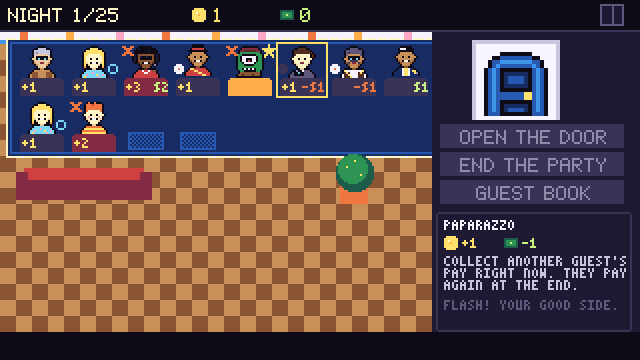
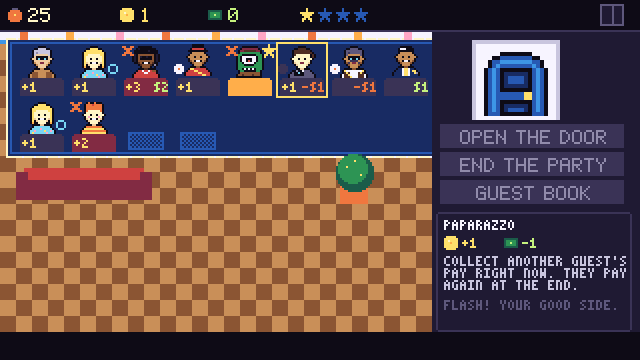
OPEN HOUSE: the grid shop is back
Hamza prefers the old shop to the GUESTS / STARS / HOUSE planner from
d051dd9, so the shop is a grid of guest cards again, five to a row, over
+1 SPACE, GUEST BOOK and NEXT PARTY, with the same D-pad navigation as
before that commit. Everything else from d051dd9 stays: the ban that
survives a quit, the star meter, the nights-left counter (now also in the
shop's top bar), the Random codes and the scenario names. The counter on
the right still explains a button when one is picked.

ph_18 becomes ph_18_codes_shop and walks the grid instead of the planner
(new shopcur probe; shopcat is gone). The design doc describes the grid,
says it is the owner's choice and that the original's planner differs.
The OPEN HOUSE shots are regenerated.

Changed region(s): [[0.0, 0.0, 0.25, 0.0611], [0.4375, 0.0306, 0.5938, 0.0611], [0.2812, 0.0, 0.375, 0.0611]]

diff --git a/src/games/openhouse/openhouse.c b/src/games/openhouse/openhouse.c
@@ -31,7 +31,7 @@ static int msg_t;
 static const char *msg;
 static int run_code = -1;          /* the Random list's six-digit code, -1 for a set list */
 static int code_dig[6], code_cur;  /* typing a code in */
-static int shop_cat, shop_row[3];  /* the planner: GUESTS, STARS, HOUSE; a row in each */
+static int shop_cur;               /* the shop grid: guests, then SPACE, NEXT PARTY, GUEST BOOK */
 
 #define SLOT_W 26
 #define SLOT_H 28
@@ -366,57 +366,44 @@ static void update_ban(void) {
 /* ------------------------------------------------------------------ */
 /* the shop                                                             */
 
-/* The planner, like the original's: left and right switch between the
- * categories (GUESTS, STARS, HOUSE), up and down pick an item in one.
- * Guests are listed by their price in fame. */
-enum { SC_GUESTS, SC_STARS, SC_HOUSE, SC_COUNT };
-enum { SH_SPACE, SH_BOOK, SH_NEXT, SH_COUNT };
+/* The shop is a grid of guest cards, five to a row, over a row of three
+ * buttons (SPACE, GUEST BOOK, NEXT PARTY). The original's planner lists its
+ * guests differently; the grid is the owner's choice. shop_cur runs through
+ * the pool, then SPACE (npool), NEXT PARTY (npool + 1), GUEST BOOK (+ 2). */
+#define SHOP_COLS 5
+enum { SH_SPACE, SH_NEXT, SH_BOOK };
 
-/* the pool indices in a category; the house items are 0..2 */
-static int shop_items(int cat, int *out) {
-    int n = 0;
-    if (cat == SC_HOUSE) { for (int i = 0; i < SH_COUNT; i++) out[n++] = i; return n; }
-    for (int i = 0; i < G.npool; i++) {
-        bool star = (PH_GUESTS[G.pool[i]].traits & T_STAR) != 0;
-        if (star == (cat == SC_STARS)) out[n++] = i;
-    }
-    return n;
-}
+static void shop_home(void) { shop_cur = 0; }
 
-static void shop_home(void) {
-    shop_cat = SC_GUESTS;
-    memset(shop_row, 0, sizeof shop_row);
-}
-
-/* the guest type under the cursor, or -1 on a house item */
-static int shop_type(void) {
-    int it[PH_POOL_MAX + SH_COUNT];
-    int n = shop_items(shop_cat, it);
-    if (shop_cat == SC_HOUSE || n == 0) return -1;
-    return G.pool[it[imin(shop_row[shop_cat], n - 1)]];
-}
+/* the guest type under the cursor, or -1 on a button */
+static int shop_type(void) { return shop_cur < G.npool ? G.pool[shop_cur] : -1; }
 
 static void update_shop(void) {
-    int it[PH_POOL_MAX + SH_COUNT];
-    int cat0 = shop_cat, row0 = shop_row[shop_cat];
-    if (btn_repeat(BTN_LEFT) && shop_cat > 0) shop_cat--;
-    if (btn_repeat(BTN_RIGHT) && shop_cat < SC_COUNT - 1) shop_cat++;
-    int n = shop_items(shop_cat, it);
-    int *r = &shop_row[shop_cat];
-    if (*r >= n) *r = imax(0, n - 1);
-    if (btn_repeat(BTN_UP)) *r = *r > 0 ? *r - 1 : n - 1;
-    if (btn_repeat(BTN_DOWN)) *r = *r < n - 1 ? *r + 1 : 0;
-    if (shop_cat != cat0 || *r != row0) sfx_play_name("ph_move");
-    if (!btnp(BTN_A) || n == 0) return;
-    if (shop_cat != SC_HOUSE) {
-        int ty = G.pool[it[*r]];
+    int c0 = shop_cur;
+    if (shop_cur < G.npool) {
+        if (btn_repeat(BTN_LEFT) && shop_cur % SHOP_COLS > 0) shop_cur--;
+        if (btn_repeat(BTN_RIGHT) && shop_cur % SHOP_COLS < SHOP_COLS - 1 && shop_cur + 1 < G.npool) shop_cur++;
+        if (btn_repeat(BTN_UP) && shop_cur >= SHOP_COLS) shop_cur -= SHOP_COLS;
+        if (btn_repeat(BTN_DOWN)) { if (shop_cur + SHOP_COLS < G.npool) shop_cur += SHOP_COLS; else shop_cur = G.npool; }
+    } else {
+        /* left to right: SPACE, GUEST BOOK, NEXT PARTY */
+        const int order[3] = {G.npool + SH_SPACE, G.npool + SH_BOOK, G.npool + SH_NEXT};
+        int k = 0;
+        while (k < 2 && order[k] != shop_cur) k++;
+        if (btn_repeat(BTN_LEFT) && k > 0) shop_cur = order[k - 1];
+        if (btn_repeat(BTN_RIGHT) && k < 2) shop_cur = order[k + 1];
+        if (btn_repeat(BTN_UP)) shop_cur = imax(0, G.npool - 1 - (G.npool - 1) % SHOP_COLS);
+    }
+    if (shop_cur != c0) sfx_play_name("ph_move");
+    if (!btnp(BTN_A)) return;
+    if (shop_cur == G.npool + SH_BOOK) { back_state = S_SHOP; state = S_LIST; state_t = 0; fcur = 0; sfx_play_name("ui_ok"); return; }
+    if (shop_cur < G.npool) {
+        int ty = G.pool[shop_cur];
         if (ph_buy(&G, ty)) sfx_play_name(PH_GUESTS[ty].traits & T_STAR ? "ph_star" : "ph_buy");
         else { sfx_play_name("ph_no"); say(!(PH_GUESTS[ty].traits & T_STAR) && G.bought[ty] >= PH_STOCK ? "SOLD OUT" : "NOT ENOUGH FAME"); }
-    } else if (*r == SH_SPACE) {
+    } else if (shop_cur == G.npool + SH_SPACE) {
         if (ph_expand(&G)) sfx_play_name("ph_build");
         else { sfx_play_name("ph_no"); say(ph_me(&G)->cap >= PH_MAX_HOUSE ? "THE HOUSE CAN'T GROW" : "NOT ENOUGH CASH"); }
-    } else if (*r == SH_BOOK) {
-        back_state = S_SHOP; state = S_LIST; state_t = 0; fcur = 0; sfx_play_name("ui_ok");
     } else {
         sfx_play_name("ui_ok");
         leave_shop();
@@ -890,9 +877,26 @@ static void draw_result(void) {
     if (state_t > 40 && (state_t / 20) % 2) text_center("PRESS " GLYPH_A, 115, 116, C_WHITE);
 }
 
-static void shop_head(const char *title, int x, int w, bool on) {
-    gfx_rect(x, 18, w, 10, on ? C_DUSK : C_INK);
-    tiny_center(title, x + w / 2, 21, on ? C_WHITE : C_SLATE);
+/* a guest card for the shop */
+static void draw_card(int ty, int x, int y, bool hi, bool can) {
+    const PhGuest *t = &PH_GUESTS[ty];
+    bool star = t->traits & T_STAR;
+    int bg = star ? C_BROWN : C_NIGHT;
+    gfx_rect(x, y, 40, 40, bg);
+    gfx_rectb(x, y, 40, 40, hi ? ((frame_t / 8) % 2 ? C_WHITE : C_YELLOW) : star ? C_AMBER : C_DUSK);
+    spr_draw(&ph_spr[ty], x + 12, y + 4, 0);
+    if (star) icon_star(x + 30, y + 2, C_YELLOW);
+    if (t->traits & (T_TROUBLE | T_MOON)) icon_trouble(x + 3, y + 3, C_RED);
+    char b[8];
+    snprintf(b, sizeof b, "%d", t->cost);
+    icon_pop(x + 3, y + 23);
+    text_draw(b, x + 12, y + 23, can ? C_YELLOW : C_SLATE);
+    if (!star) {
+        int left = PH_STOCK - G.bought[ty];
+        for (int k = 0; k < PH_STOCK; k++) gfx_rect(x + 5 + k * 8, y + 34, 5, 3, k < left ? C_LIME : C_DUSK);
+    } else {
+        tiny_draw("STAR", x + 12, y + 33, C_AMBER);
+    }
 }
 
 static void draw_shop(void) {
@@ -903,8 +907,8 @@ static void draw_shop(void) {
     gfx_rect(0, 0, SCREEN_W, 15, C_INK);
     gfx_hline(0, SCREEN_W - 1, 15, C_DUSK);
     char b[48];
-    if (G.players == 2) snprintf(b, sizeof b, "P%d  PLANNER", G.turn + 1);
-    else snprintf(b, sizeof b, "PLANNER");
+    if (G.players == 2) snprintf(b, sizeof b, "P%d  THE SHOP", G.turn + 1);
+    else snprintf(b, sizeof b, "THE SHOP");
     text_draw(b, 4, 4, C_CREAM);
     icon_nights(84, 4);
     snprintf(b, sizeof b, "%d", nights_left(p, false));
@@ -917,61 +921,23 @@ static void draw_shop(void) {
     text_draw(b, 186, 4, C_LIME);
     snprintf(b, sizeof b, "HOUSE %d", p->cap);
     text_draw(b, 222, 4, C_SKY);
-    int it[PH_POOL_MAX + SH_COUNT];
-    /* GUESTS: name, price in fame, the stock left as squares */
-    shop_head("GUESTS", 4, 116, shop_cat == SC_GUESTS);
-    int n = shop_items(SC_GUESTS, it);
-    for (int k = 0; k < n; k++) {
-        int ty = G.pool[it[k]], y = 30 + k * 10;
-        bool hi = shop_cat == SC_GUESTS && shop_row[SC_GUESTS] == k, can = ph_can_buy(&G, ty);
-        if (hi) gfx_rect(4, y - 1, 116, 10, C_DUSK);
-        tiny_draw(PH_GUESTS[ty].name, 7, y + 1, can ? C_WHITE : C_SLATE);
-        if (PH_GUESTS[ty].traits & (T_TROUBLE | T_MOON)) icon_trouble(69, y + 1, C_RED);
-        snprintf(b, sizeof b, "%d", PH_GUESTS[ty].cost);
-        text_draw(b, 84, y, can ? C_YELLOW : C_SLATE);
-        int left = PH_STOCK - G.bought[ty];
-        for (int q = 0; q < PH_STOCK; q++) gfx_rect(100 + q * 5, y + 2, 3, 3, q < left ? C_WHITE : C_DUSK);
+    for (int i = 0; i < G.npool; i++) {
+        int x = 6 + (i % SHOP_COLS) * 43, y = 20 + (i / SHOP_COLS) * 43;
+        draw_card(G.pool[i], x, y, shop_cur == i, ph_can_buy(&G, G.pool[i]));
     }
-    /* STARS: no stock limit */
-    shop_head("STARS", 124, 50, shop_cat == SC_STARS);
-    n = shop_items(SC_STARS, it);
-    for (int k = 0; k < n; k++) {
-        int ty = G.pool[it[k]], y = 31 + k * 36;
-        bool hi = shop_cat == SC_STARS && shop_row[SC_STARS] == k, can = ph_can_buy(&G, ty);
-        gfx_rect(124, y, 50, 34, hi ? C_BROWN : C_INK);
-        gfx_rectb(124, y, 50, 34, hi ? ((frame_t / 8) % 2 ? C_WHITE : C_YELLOW) : C_AMBER);
-        spr_draw(&ph_spr[ty], 141, y + 2, 0);
-        icon_star(164, y + 2, C_YELLOW);
-        icon_pop(128, y + 23);
-        snprintf(b, sizeof b, "%d", PH_GUESTS[ty].cost);
-        text_draw(b, 137, y + 23, can ? C_YELLOW : C_SLATE);
-    }
-    /* HOUSE: a new space, the guest book, the next party */
-    shop_head("HOUSE", 178, 40, shop_cat == SC_HOUSE);
+    /* space, the guest book and the next party */
+    bool hs = shop_cur == G.npool + SH_SPACE, hn = shop_cur == G.npool + SH_NEXT, hb = shop_cur == G.npool + SH_BOOK;
     int cost = ph_expand_cost(p);
-    for (int k = 0; k < SH_COUNT; k++) {
-        int y = 31 + k * 30;
-        bool hi = shop_cat == SC_HOUSE && shop_row[SC_HOUSE] == k;
-        int bg = k == SH_SPACE ? C_TEAL : k == SH_BOOK ? C_NAVY : C_JADE;
-        int hl = k == SH_SPACE ? C_CYAN : k == SH_BOOK ? C_SKY : C_LIME;
-        gfx_rect(178, y, 40, 26, hi ? bg : C_INK);
-        gfx_rectb(178, y, 40, 26, hi ? hl : C_DUSK);
-        if (k == SH_SPACE) {
-            bool ok = p->cash >= cost && p->cap < PH_MAX_HOUSE;
-            if (p->cap >= PH_MAX_HOUSE) tiny_center("FULL", 198, y + 10, C_SLATE);
-            else {
-                tiny_center("+1 SPACE", 198, y + 6, ok ? C_WHITE : C_SLATE);
-                snprintf(b, sizeof b, "$%d", cost);
-                tiny_center(b, 198, y + 15, ok ? C_LIME : C_SLATE);
-            }
-        } else if (k == SH_BOOK) {
-            tiny_center("GUEST", 198, y + 6, hi ? C_WHITE : C_GREY);
-            tiny_center("BOOK", 198, y + 15, hi ? C_WHITE : C_GREY);
-        } else {
-            tiny_center("NEXT", 198, y + 6, hi ? C_WHITE : C_GREY);
-            tiny_center("PARTY", 198, y + 15, hi ? C_WHITE : C_GREY);
-        }
-    }
+    gfx_rect(6, 152, 70, 20, hs ? C_TEAL : C_INK);
+    gfx_rectb(6, 152, 70, 20, hs ? C_CYAN : C_DUSK);
+    snprintf(b, sizeof b, "+1 SPACE $%d", cost);
+    text_center(p->cap >= PH_MAX_HOUSE ? "FULL SIZE" : b, 41, 158, p->cash >= cost && p->cap < PH_MAX_HOUSE ? C_WHITE : C_SLATE);
+    gfx_rect(80, 152, 66, 20, hb ? C_NAVY : C_INK);
+    gfx_rectb(80, 152, 66, 20, hb ? C_SKY : C_DUSK);
+    text_center("GUEST BOOK", 113, 158, hb ? C_WHITE : C_GREY);
+    gfx_rect(150, 152, 68, 20, hn ? C_JADE : C_INK);
+    gfx_rectb(150, 152, 68, 20, hn ? C_LIME : C_DUSK);
+    text_center("NEXT PARTY", 184, 158, hn ? C_WHITE : C_GREY);
     /* the card on the counter */
     int ty = shop_type();
     if (ty >= 0) {
@@ -988,11 +954,11 @@ static void draw_shop(void) {
         tiny_lines(t->flavour, 226, 128, C_SLATE);
     } else {
         ui_panel(222, 20, 94, 152, C_INK, C_DUSK);
-        static const char *const HOUSE_INFO[SH_COUNT] = {
-            "ONE MORE SPACE IN\nTHE HOUSE. EACH ONE\nCOSTS $1 MORE.",
-            "EVERYONE IN YOUR\nBOOK OF GUESTS.",
-            "DONE SHOPPING.\nTHROW THE NEXT\nPARTY."};
-        tiny_lines(HOUSE_INFO[imin(shop_row[SC_HOUSE], SH_COUNT - 1)], 226, 28, C_LIGHT);
+        static const char *const BUTTON_INFO[3] = {
+            [SH_SPACE] = "ONE MORE SPACE IN\nTHE HOUSE. EACH ONE\nCOSTS $1 MORE.",
+            [SH_NEXT] = "DONE SHOPPING.\nTHROW THE NEXT\nPARTY.",
+            [SH_BOOK] = "EVERYONE IN YOUR\nBOOK OF GUESTS."};
+        tiny_lines(BUTTON_INFO[iclamp(shop_cur - G.npool, 0, 2)], 226, 28, C_LIGHT);
     }
     if (msg_t > 0 && msg) {
         ui_panel(40, 80, 150, 20, C_NIGHT, C_ORANGE);
@@ -1364,7 +1330,7 @@ static int oh_query(const char *key, int *out) {
     if (!strcmp(key, "npool")) { *out = G.npool; return 1; }
     if (!strcmp(key, "code")) { *out = run_code; return 1; }
     if (!strcmp(key, "typed")) { *out = code_typed(); return 1; }
-    if (!strcmp(key, "shopcat")) { *out = shop_cat; return 1; }
+    if (!strcmp(key, "shopcur")) { *out = shop_cur; return 1; }
     if (!strcmp(key, "shoptype")) { *out = shop_type(); return 1; }
     if (!strcmp(key, "players")) { *out = G.players; return 1; }
     if (!strncmp(key, "slot", 4)) { int i = atoi(key + 4); *out = i < G.party.n ? p->card[G.party.house[i]].type : -1; return 1; }

diff --git a/docs/games/25-open-house.md b/docs/games/25-open-house.md
@@ -216,7 +216,7 @@ Only the platform needs every UFO 40 cartridge has:
 | START | pause menu |
 
 The guest book (the whole deck, each guest with a count) is a button under
-the door and in the planner. It doesn't split the deck into guests still to
+the door and in the shop. It doesn't split the deck into guests still to
 come and guests out: no source says the original shows the draws left.
 
 The party's top bar, like the original's panel [MM], shows the nights left
@@ -224,10 +224,17 @@ The party's top bar, like the original's panel [MM], shows the nights left
 that turn from blue to yellow for each star guest in the house. The trouble
 count stays hidden; the neighbour's lamp is the only warning.
 
-The planner follows the original's layout [MM]: LEFT and RIGHT switch
-between the categories GUESTS, STARS and HOUSE (a new space, the guest book,
-the next party); UP and DOWN pick an item. Guests are listed by price, white
-when you can afford them, with their stock left as white squares.
+The shop is a grid of guest cards, five to a row, each with its face, its
+price in fame (yellow when you can afford it) and its stock left as green
+bars (stars say STAR); the counter on the right describes the card under
+the cursor. Under the grid sit +1 SPACE, GUEST BOOK and NEXT PARTY. The
+D-pad moves around the grid; DOWN from the last row reaches the buttons.
+
+The grid shop is the owner's choice. The original's layout differs: its
+planner [MM] sorts what's on sale into categories that LEFT and RIGHT switch
+between, with UP and DOWN picking an item in one. We tried that and went
+back to the grid, which the owner prefers; everything else about the shop
+(the stock, prices and expansion costs) follows the original.
 
 ## Testing hooks
 
